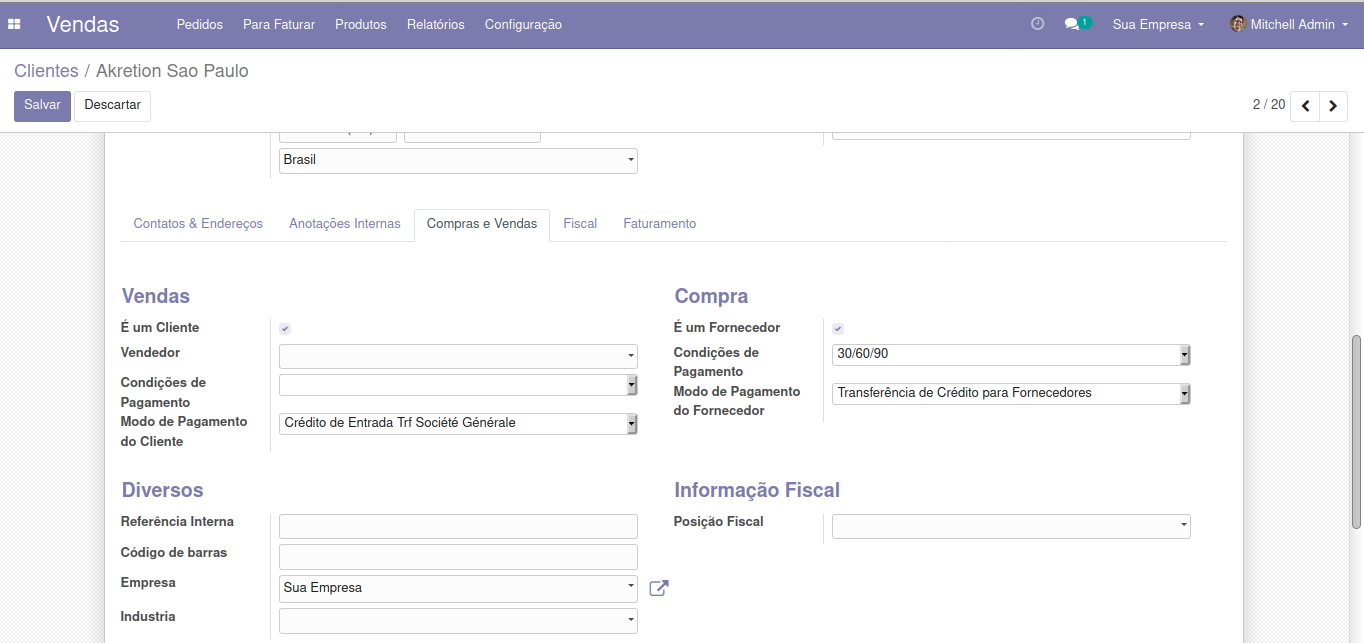
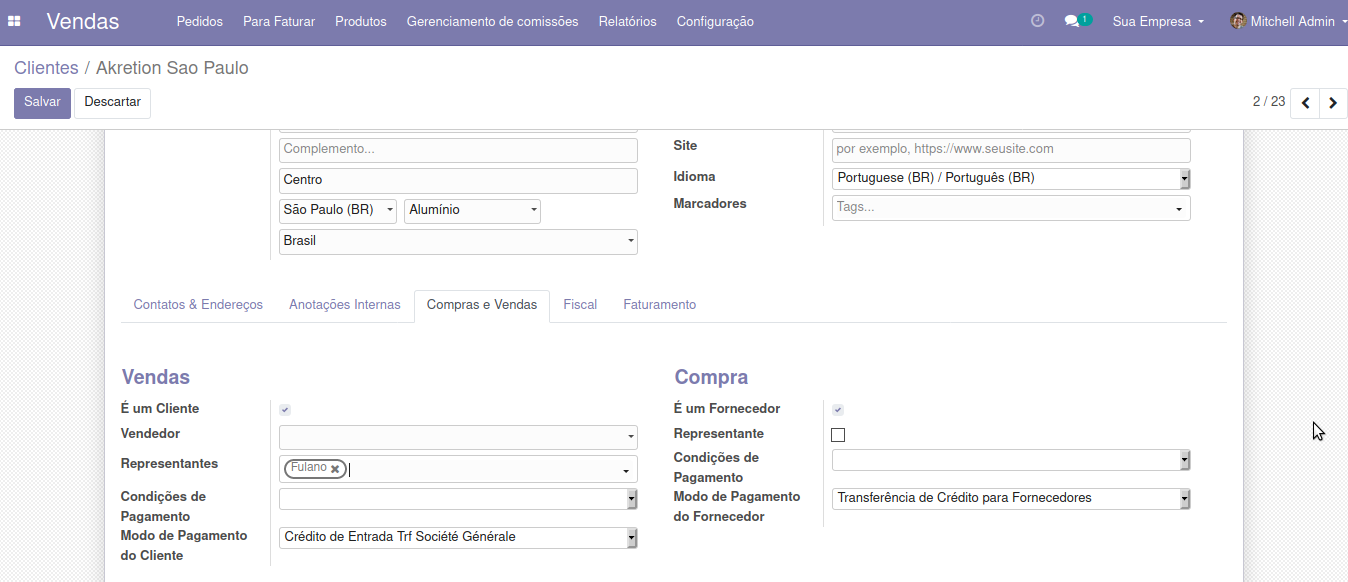
GitBook: [pt] 3 pages and 20 assets modified

diff --git a/faturamento/configuracao/condicao-de-pagamento.md b/faturamento/configuracao/condicao-de-pagamento.md
@@ -4,15 +4,15 @@ Cadastro referente a quantidade de parcelas que serão criadas para saldar um Pa
 
  Faturamento &gt; Configuração &gt; Administração &gt; Condições de Pagamento
 
-![](../../.gitbook/assets/image%20%2868%29.png)
+![](../../.gitbook/assets/image%20%2870%29.png)
 
 Clique em Criar para adicionar uma nova Condição, veja um exemplo:
 
-![](../../.gitbook/assets/image%20%2870%29.png)
+![](../../.gitbook/assets/image%20%2872%29.png)
 
 Clique em Adicionar uma Linha para informar as Parcelas, veja que no Tipo do Termo está sendo utilizado o Percentual para esse exemplo, como serão três parcelas na primeira o valor será 33,3 \( 33,3 + 33,3 + Saldo \).
 
-![](../../.gitbook/assets/image%20%2864%29.png)
+![](../../.gitbook/assets/image%20%2866%29.png)
 
 Também existe outras parametrizações possíveis referentes ao Cálculo da Data de Vencimento, dependendo da configuração necessária.
 
@@ -26,11 +26,11 @@ Em seguida para a última Parcela no Tipo de Termo deixe Saldo assim o valor res
 
 
 
-![](../../.gitbook/assets/image%20%2869%29.png)
+![](../../.gitbook/assets/image%20%2871%29.png)
 
 Clique em Save & Close \( Salvar & Fechar , está faltando a tradução \) e em Salvar
 
-![](../../.gitbook/assets/image%20%2875%29.png)
+![](../../.gitbook/assets/image%20%2878%29.png)
 
 Agora já será possível informar a Condição de Pagamento no Pedido de Venda:
 
@@ -38,11 +38,11 @@ Agora já será possível informar a Condição de Pagamento no Pedido de Venda:
 
 No Pedido de Compra, aba Outras Informações:
 
-![](../../.gitbook/assets/image%20%2865%29.png)
+![](../../.gitbook/assets/image%20%2867%29.png)
 
 Ou mesmo pré definir no cadastro tanto do Cliente como Fornecedor, na aba Compras e Vendas a Condição de Pagamento padrão para cada um:
 
-![](../../.gitbook/assets/image%20%2859%29.png)
+![](../../.gitbook/assets/image%20%2861%29.png)
 
 Ao criar um Pedido tanto de Compra como Venda para esse Cliente ou Fornecedor essa informação será automaticamente carregada podendo também , se necessário, ser alterada no pedido.
 

diff --git a/faturamento/configuracao/comissao/representante-comercial.md b/faturamento/configuracao/comissao/representante-comercial.md
@@ -6,21 +6,21 @@ Vendas &gt; Gerenciamento de Representantes &gt; Representantes
 
  
 
-![](../../../.gitbook/assets/image%20%2867%29.png)
+![](../../../.gitbook/assets/image%20%2869%29.png)
 
 Clique em Criar para um novo cadastro
 
-![](../../../.gitbook/assets/image%20%2866%29.png)
+![](../../../.gitbook/assets/image%20%2868%29.png)
 
 
 
 Veja que o cadastro é o mesmo que o de um Cliente e Fornecedor, isso permite algo que é comum em muitos casos um Representante Comercial também pode ser além de Fornecedor um Cliente, a identificação dele como Representante Comercial é feita na aba Compras e Vendas no campo Representante.
 
-![](../../../.gitbook/assets/image%20%2874%29.png)
+![](../../../.gitbook/assets/image%20%2877%29.png)
 
 Quando esse campo está marcado outra aba irá aparecer Informações dos Representantes 
 
-![](../../../.gitbook/assets/image%20%2860%29.png)
+![](../../../.gitbook/assets/image%20%2862%29.png)
 
 As opções de configuração são:
 
@@ -29,4 +29,18 @@ As opções de configuração são:
 * Período de Abatimento - \( parece ter um erro de tradução, verificar \) isso é referente ao Período usado para Pagamentos das Comissões se Mensalmente, Trimestralmente, Semestral ou Anual.
 
 Logo abaixo em Abatimentos \( parece ter um erro de tradução, verificar \) irá aparecer as Comissões dos Pedidos de Vendas criados que estiverem relacionadas a esse representante. 
+
+Agora já será possível tanto pré definir o Representante Comercial dentro do cadastro de um Cliente:
+
+![](../../../.gitbook/assets/image%20%2859%29.png)
+
+Ou informar em um Pedido de Venda:
+
+![](../../../.gitbook/assets/image%20%2875%29.png)
+
+Veja que como para esse cliente foi pré definido o Representante, no cadastro do Cliente, ao criar uma nova linha o campo já será preenchido automaticamente, podendo também ser alterado se necessário, e nos valores totais será mostrado o valor total das comissões
+
+![](../../../.gitbook/assets/image%20%2858%29.png)
+
+
 

diff --git a/faturamento/configuracao/tipos-de-comissao.md b/faturamento/configuracao/tipos-de-comissao.md
@@ -4,13 +4,13 @@ O cadastro de Tipos de Comissão é onde será informado os valores usados para 
 
 Vendas &gt; Gerenciamento de Comissões &gt; Tipos de Comissões
 
-![](../../.gitbook/assets/image%20%2873%29.png)
+![](../../.gitbook/assets/image%20%2876%29.png)
 
 Clique em Criar para um novo cadastro
 
-![](../../.gitbook/assets/image%20%2862%29.png)
+![](../../.gitbook/assets/image%20%2864%29.png)
 
-![](../../.gitbook/assets/image%20%2863%29.png)
+![](../../.gitbook/assets/image%20%2865%29.png)
 
 
 
@@ -24,7 +24,7 @@ Veja que existem algumas opções de parametrizações que podem ser feitas de a
 
   
 
-![](../../.gitbook/assets/image%20%2858%29.png)
+![](../../.gitbook/assets/image%20%2860%29.png)
 
 ![](../../.gitbook/assets/image%20%2855%29.png)
 
@@ -32,7 +32,7 @@ Veja que existem algumas opções de parametrizações que podem ser feitas de a
 
         Se o valor será baseado no Montante Bruto ou Líquido
 
-![](../../.gitbook/assets/image%20%2861%29.png)
+![](../../.gitbook/assets/image%20%2863%29.png)
 
 * Situação da Fatura  - essa opção define em que vai ser baseado o pagamento da comissão
 
@@ -40,7 +40,7 @@ Veja que existem algumas opções de parametrizações que podem ser feitas de a
 
        Baseado no Pagamento - nesse caso o pagamento da comissão será feito quando a Fatura estiver Paga.
 
-![](../../.gitbook/assets/image%20%2872%29.png)
+![](../../.gitbook/assets/image%20%2874%29.png)
 
 
 
